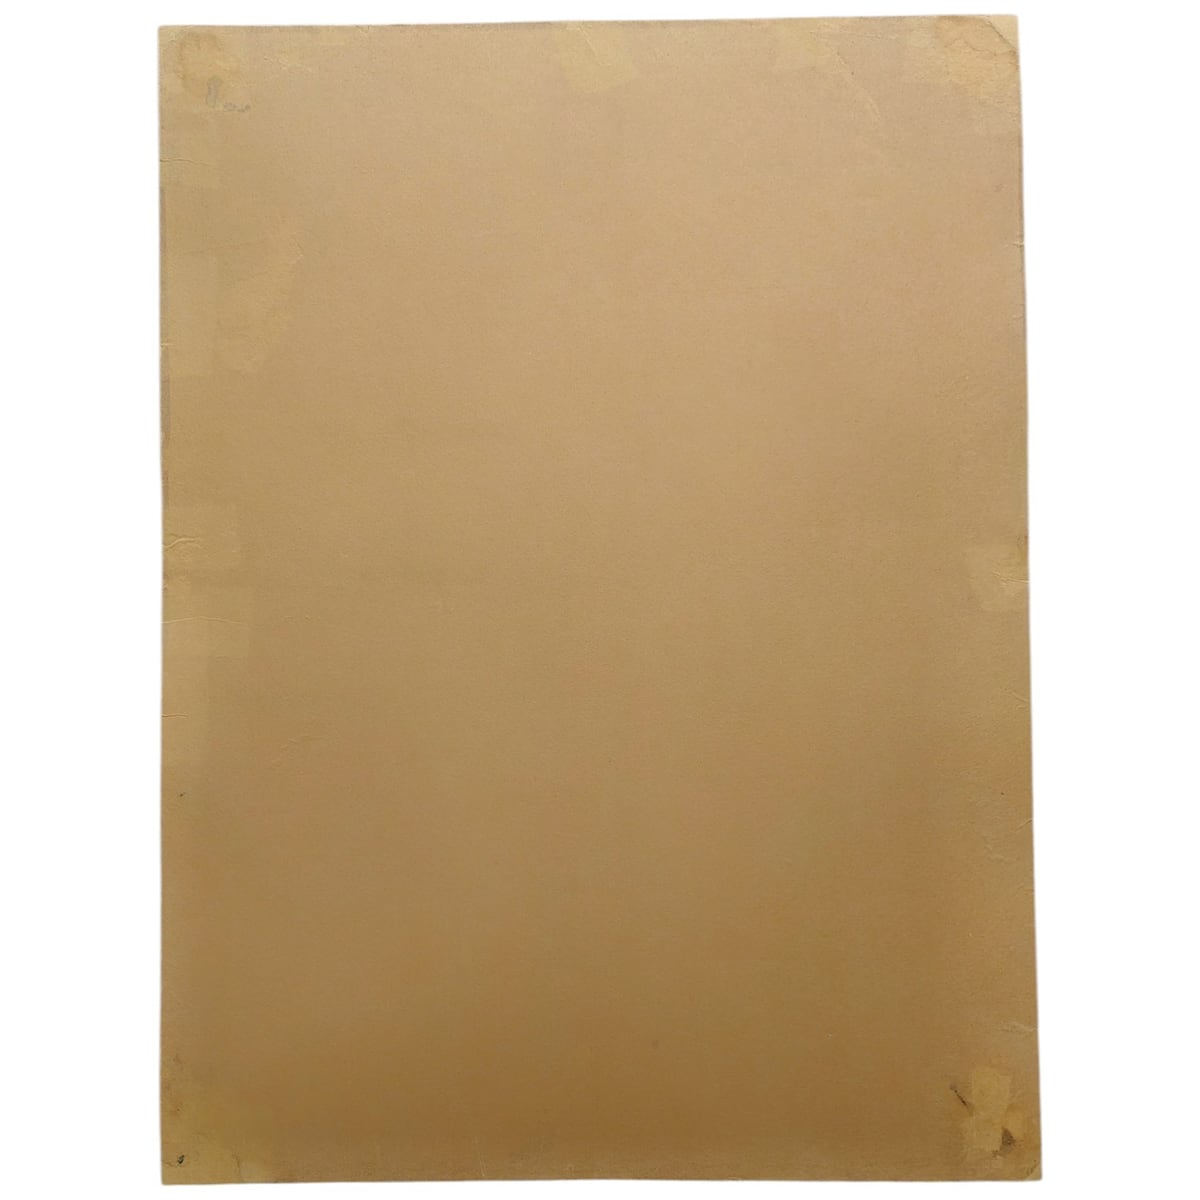
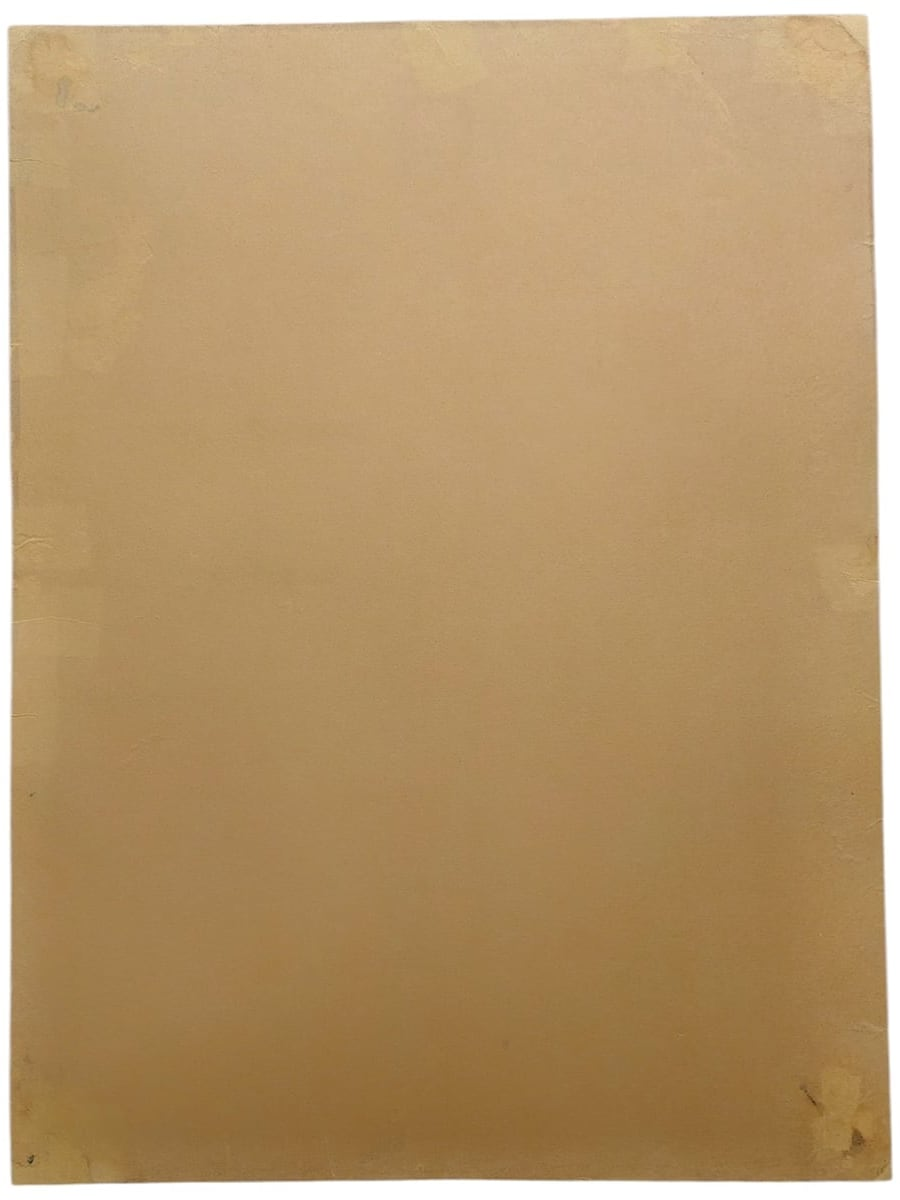
feat(intervenciones): cerrar OG/3 + PL&M/6; sincronizar pares desalineados
Parte A:
- OG/3 (David Manzur, 1983): procesar Antes.jpg + obragrafica-3-despues.jpg → grafica/p3/ (900×1200, fit:cover)
- PL&M/6 (paisaje niebla con/sin marco): procesar → lienzoMadera/p6/ (1200×800, fit:cover); aspect 3/2

Parte C — centre-crop para pixel-perfect sync:
- ceramica: antes 1200×1200 → 1200×800 (crop top/bottom 200px); aspect 3/2
- escultura: ambas desde fuente original → 676×1200 (cover crop); aspect 9/16
- grafica/p1/a+b: despues 1200×1200 → 900×1200 (crop 150px c/lado)
- grafica/p6/a: antes 1106×1200 → 1026×1200 (crop 40px c/lado)
- lienzoMadera/p2: despues 1027×1200 → 857×1200 (crop 85px c/lado)

data: OG/3 insertado como Proyecto 3 (OG/4-6 renumerados a 4-6); PL&M/6 añadido como Proyecto 6

Changed region(s): [[0.7778, 0.0, 0.9956, 0.9867], [0.0, 0.0, 0.1556, 1.0], [0.1556, 0.9867, 0.1867, 1.0]]

diff --git a/assets/data/intervenciones.js b/assets/data/intervenciones.js
@@ -3,27 +3,19 @@
    Data-driven: main.js renders one folder card per entry; clicking opens a modal
    with a before/after slider per project (or a "coming soon" state if empty).
 
-   ---------------------------------------------------------------------------
    HOW TO ADD A PROJECT
    ---------------------------------------------------------------------------
-   Push an entry onto the `projects` array for the relevant category:
-     projects: [
-       { before: 'assets/img/intervenciones/ceramica/ceramica-antes.jpg',
-         after:  'assets/img/intervenciones/ceramica/ceramica-despues.jpg',
-         aspect: '4/3',   // optional; overrides the slider aspect-ratio
-         title:  'Cuenco arqueológico · consolidación y reintegración',
-         desc:   '' }     // leave empty until text is ready
-     ]
-   For projects with multiple before/after pairs (e.g. anverso + reverso), use:
-     { title: 'Proyecto 1', aspect: '3/4', pairs: [
-       { before: '...a-antes.jpg', after: '...a-despues.jpg' },
-       { before: '...b-antes.jpg', after: '...b-despues.jpg' }
+   Single pair:
+     { before:'path/antes.jpg', after:'path/despues.jpg', aspect:'3/4',
+       title:'Proyecto N', desc:'' }
+   Multiple pairs per project (anverso + reverso, etc.):
+     { title:'Proyecto N', desc:'', aspect:'3/4', pairs:[
+       { before:'path/a-antes.jpg', after:'path/a-despues.jpg' },
+       { before:'path/b-antes.jpg', after:'path/b-despues.jpg' }
      ]}
-   The modal then shows a draggable before/after slider for each pair.
-   While a category has no projects, its modal shows a "coming soon" panel.
-
-   `img` is used only for the empty-state background in the modal.
-   `icon_rest` / `icon_hover` are the card's sepia/color photo states.
+   `img` → empty-state modal background. `icon_rest/hover` → card states.
+   aspect → CSS aspect-ratio for the .ba slider container. Both images in a
+   pair MUST share the same pixel dimensions (centre-cropped at build time).
 ============================================================================ */
 window.INTERVENCIONES = {
   lienzoMadera: {
@@ -32,22 +24,22 @@ window.INTERVENCIONES = {
     icon_rest:  "assets/img/intervenciones/iconos/icon-pintura-sepia.jpg",
     icon_hover: "assets/img/intervenciones/iconos/icon-pintura-color.jpg",
     projects: [
-      /* PL&M/1 — Paisaje con rebaño (2 pares: anverso + reverso/bastidor) */
+      /* PL&M/1 — Paisaje con rebaño · 2 pares (frente + bastidor) */
       { title: "Proyecto 1", desc: "", aspect: "4/3", pairs: [
         { before: "assets/img/intervenciones/lienzoMadera/p1/a-antes.jpg",
           after:  "assets/img/intervenciones/lienzoMadera/p1/a-despues.jpg" },
         { before: "assets/img/intervenciones/lienzoMadera/p1/b-antes.jpg",
           after:  "assets/img/intervenciones/lienzoMadera/p1/b-despues.jpg" }
       ]},
-      /* PL&M/2 — Paisaje nocturno lunar (reencuadre + nuevo marco) */
+      /* PL&M/2 — Paisaje nocturno lunar */
       { title: "Proyecto 2", desc: "", aspect: "3/4",
         before: "assets/img/intervenciones/lienzoMadera/p2/antes.jpg",
         after:  "assets/img/intervenciones/lienzoMadera/p2/despues.jpg" },
-      /* PL&M/3 — Detalle microscópico: reparación de tela */
+      /* PL&M/3 — Detalle microscópico reparación de tela */
       { title: "Proyecto 3", desc: "", aspect: "3/4",
         before: "assets/img/intervenciones/lienzoMadera/p3/antes.jpg",
         after:  "assets/img/intervenciones/lienzoMadera/p3/despues.jpg" },
-      /* PL&M/4 — S. Juan Nepomuceno Mártir (2 pares: anverso + reverso) */
+      /* PL&M/4 — S. Juan Nepomuceno Mártir · 2 pares (frente + reverso) */
       { title: "Proyecto 4", desc: "", aspect: "3/4", pairs: [
         { before: "assets/img/intervenciones/lienzoMadera/p4/a-antes.jpg",
           after:  "assets/img/intervenciones/lienzoMadera/p4/a-despues.jpg" },
@@ -57,7 +49,11 @@ window.INTERVENCIONES = {
       /* PL&M/5 — Pequeño paisaje (A. Páramo) */
       { title: "Proyecto 5", desc: "", aspect: "4/3",
         before: "assets/img/intervenciones/lienzoMadera/p5/antes.jpg",
-        after:  "assets/img/intervenciones/lienzoMadera/p5/despues.jpg" }
+        after:  "assets/img/intervenciones/lienzoMadera/p5/despues.jpg" },
+      /* PL&M/6 — Paisaje de niebla (con marco → sin marco) */
+      { title: "Proyecto 6", desc: "En preparación", aspect: "3/2",
+        before: "assets/img/intervenciones/lienzoMadera/p6/antes.jpg",
+        after:  "assets/img/intervenciones/lienzoMadera/p6/despues.jpg" }
     ]
   },
   escultura: {
@@ -66,7 +62,8 @@ window.INTERVENCIONES = {
     icon_rest:  "assets/img/intervenciones/iconos/icon-escultura-sepia.jpg",
     icon_hover: "assets/img/intervenciones/iconos/icon-escultura-color.jpg",
     projects: [
-      { title: "Proyecto 1", desc: "", aspect: "3/4",
+      /* Both images centre-cropped to 676×1200 from source for pixel-perfect sync */
+      { title: "Proyecto 1", desc: "", aspect: "9/16",
         before: "assets/img/intervenciones/escultura/escultura-antes.jpg",
         after:  "assets/img/intervenciones/escultura/escultura-despues.jpg" }
     ]
@@ -77,30 +74,34 @@ window.INTERVENCIONES = {
     icon_rest:  "assets/img/intervenciones/iconos/icon-grafica-sepia.jpg",
     icon_hover: "assets/img/intervenciones/iconos/icon-grafica-color.jpg",
     projects: [
-      /* OG/1 — Acuarela (2 pares: anverso + reverso) */
+      /* OG/1 — Acuarela figurativa · 2 pares (anverso + reverso) */
       { title: "Proyecto 1", desc: "", aspect: "3/4", pairs: [
         { before: "assets/img/intervenciones/grafica/p1/a-antes.jpg",
           after:  "assets/img/intervenciones/grafica/p1/a-despues.jpg" },
         { before: "assets/img/intervenciones/grafica/p1/b-antes.jpg",
           after:  "assets/img/intervenciones/grafica/p1/b-despues.jpg" }
       ]},
-      /* OG/2 — Serigrafía Warhol (2 pares: anverso + reverso) */
+      /* OG/2 — Serigrafía Warhol · 2 pares (anverso + reverso) */
       { title: "Proyecto 2", desc: "", aspect: "3/4", pairs: [
         { before: "assets/img/intervenciones/grafica/p2/a-antes.jpg",
           after:  "assets/img/intervenciones/grafica/p2/a-despues.jpg" },
         { before: "assets/img/intervenciones/grafica/p2/b-antes.jpg",
           after:  "assets/img/intervenciones/grafica/p2/b-despues.jpg" }
       ]},
-      /* OG/4 — Litografía "Las Monjas" */
+      /* OG/3 — David Manzur watercolor (acuarela, 1983) */
       { title: "Proyecto 3", desc: "", aspect: "3/4",
+        before: "assets/img/intervenciones/grafica/p3/antes.jpg",
+        after:  "assets/img/intervenciones/grafica/p3/despues.jpg" },
+      /* OG/4 — Litografía "Las Monjas" */
+      { title: "Proyecto 4", desc: "", aspect: "3/4",
         before: "assets/img/intervenciones/grafica/p4/antes.jpg",
         after:  "assets/img/intervenciones/grafica/p4/despues.jpg" },
       /* OG/5 — "El Torito" (Grau) */
-      { title: "Proyecto 4", desc: "", aspect: "4/3",
+      { title: "Proyecto 5", desc: "", aspect: "4/3",
         before: "assets/img/intervenciones/grafica/p5/antes.jpg",
         after:  "assets/img/intervenciones/grafica/p5/despues.jpg" },
-      /* OG/6 — Spiritus Sapientiae (2 pares: anverso + reverso) */
-      { title: "Proyecto 5", desc: "", aspect: "3/4", pairs: [
+      /* OG/6 — Spiritus Sapientiae · 2 pares (anverso + reverso) */
+      { title: "Proyecto 6", desc: "", aspect: "3/4", pairs: [
         { before: "assets/img/intervenciones/grafica/p6/a-antes.jpg",
           after:  "assets/img/intervenciones/grafica/p6/a-despues.jpg" },
         { before: "assets/img/intervenciones/grafica/p6/b-antes.jpg",
@@ -114,7 +115,8 @@ window.INTERVENCIONES = {
     icon_rest:  "assets/img/intervenciones/iconos/icon-ceramica-sepia.jpg",
     icon_hover: "assets/img/intervenciones/iconos/icon-ceramica-color.jpg",
     projects: [
-      { title: "Proyecto 1", desc: "", aspect: "4/3",
+      /* antes centre-cropped to 1200×800 to match despues (both 3:2 landscape) */
+      { title: "Proyecto 1", desc: "", aspect: "3/2",
         before: "assets/img/intervenciones/ceramica/ceramica-antes.jpg",
         after:  "assets/img/intervenciones/ceramica/ceramica-despues.jpg" }
     ]
